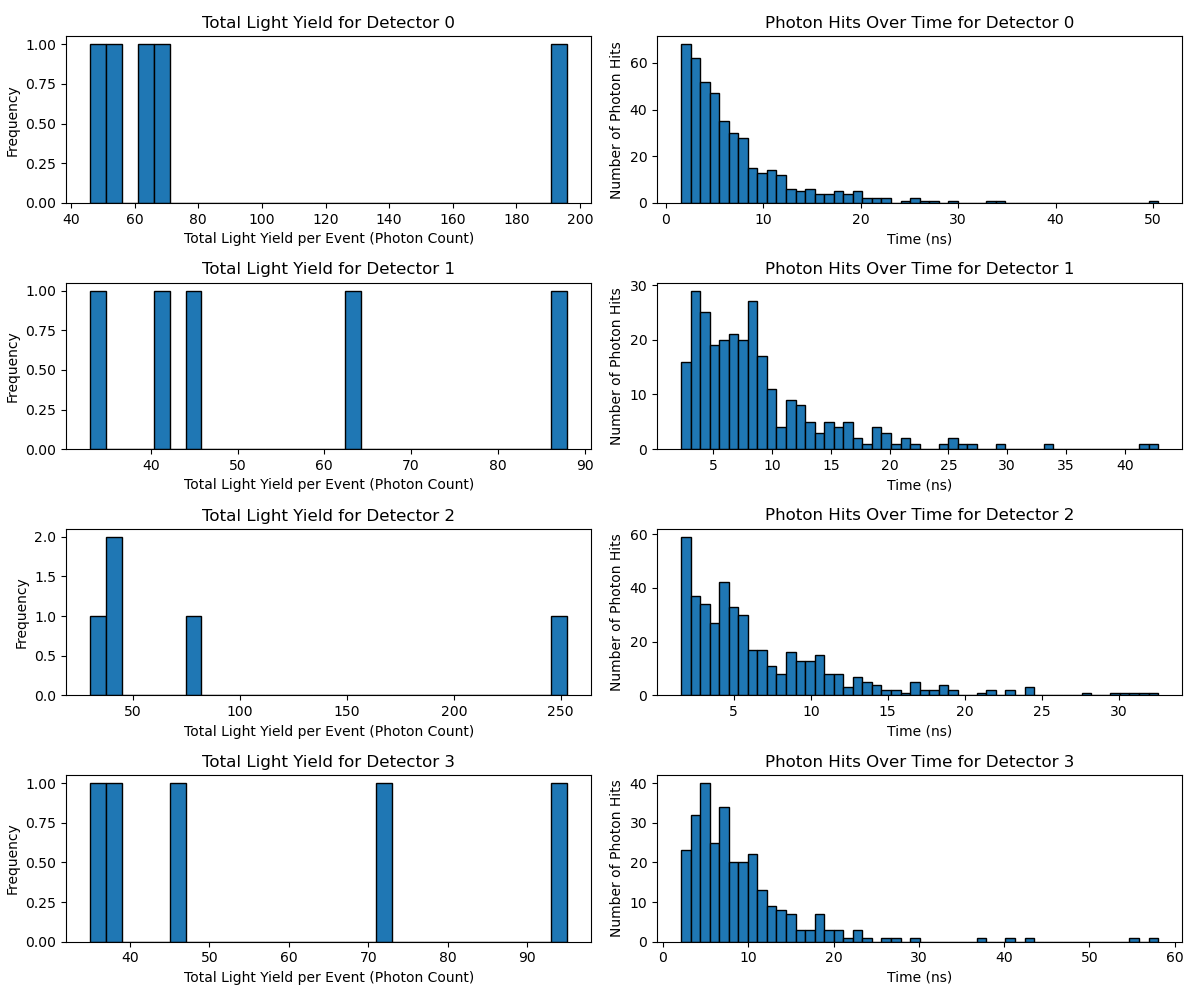
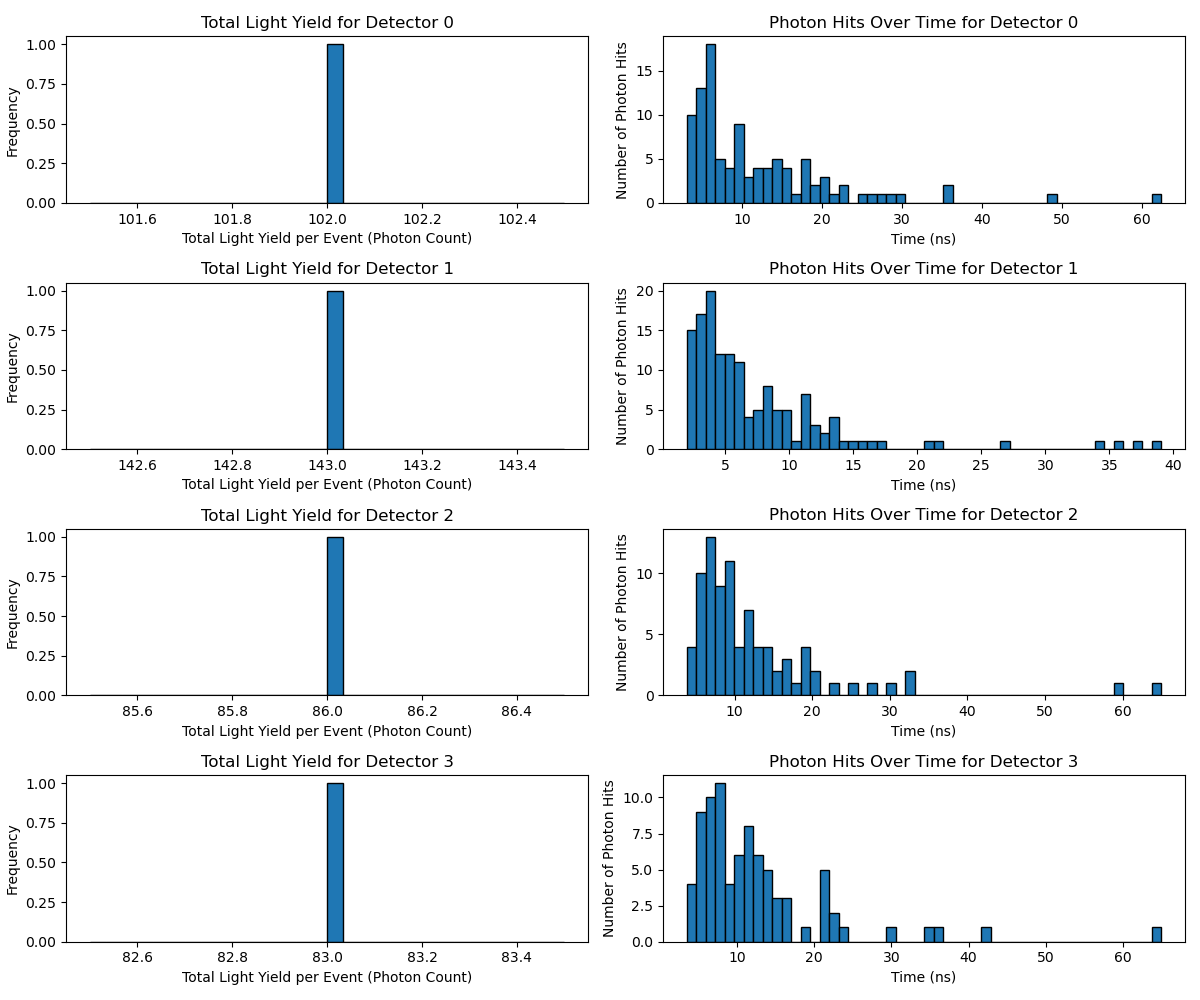
ran at 98% reflective

diff --git a/src/DetectorConstruction.cc b/src/DetectorConstruction.cc
@@ -72,10 +72,7 @@ G4VPhysicalVolume *MyDetectorConstruction::Construct() {
 
     // Mirror Surface Boundary ::::::::::::::::::::::::::::::::::::::::::::::::::::::::::::::::::::::::::::::::::::::::::::::::::::
 
-    // G4double reflectivity[4] = {1.0, 1.0, 1.0, 1.0};
-    G4double reflectivity[4] = {0.95, 0.95, 0.95, 0.95};
-    // G4double reflectivity[4] = {0.65, 0.65, 0.65, 0.65};
-
+    G4double reflectivity[4] = {0.98, 0.98, 0.98, 0.98};
 
     mirrorSurface = new G4OpticalSurface("mirrorSurface");
     mirrorSurface->SetType(dielectric_metal);
